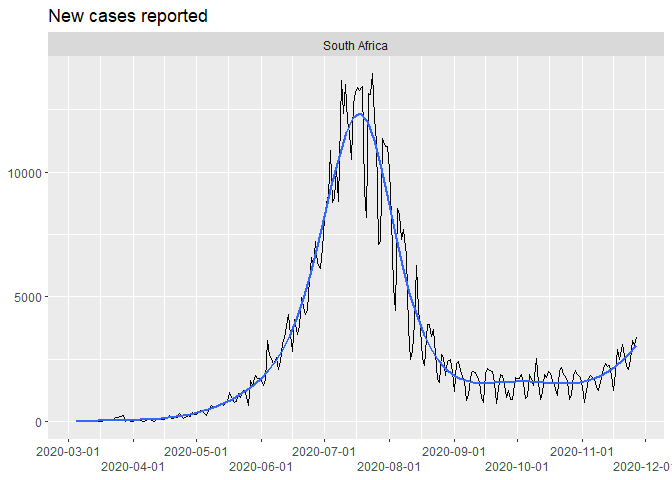
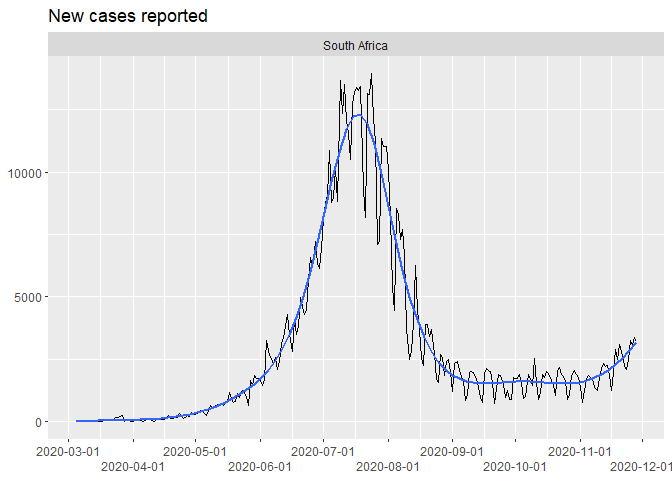
Refresh

diff --git a/README.md b/README.md
@@ -20,7 +20,7 @@ The data source is [a repository maintained by Johns Hopkins
 University](https://github.com/CSSEGISandData/COVID-19). The data is
 updated once per day.
 
-Last updated at 2020-11-28 07:46:59
+Last updated at 2020-11-29 18:03:47
 
 Total cases
 -----------
@@ -29,16 +29,16 @@ Total cases
     #> # Groups:   country [1]
     #>    country      date         lat  long  cases
     #>    <chr>        <date>     <dbl> <dbl>  <dbl>
-    #>  1 South Africa 2020-11-18 -30.6  22.9 757144
-    #>  2 South Africa 2020-11-19 -30.6  22.9 759658
-    #>  3 South Africa 2020-11-20 -30.6  22.9 762763
-    #>  4 South Africa 2020-11-21 -30.6  22.9 765409
-    #>  5 South Africa 2020-11-22 -30.6  22.9 767679
-    #>  6 South Africa 2020-11-23 -30.6  22.9 769759
-    #>  7 South Africa 2020-11-24 -30.6  22.9 772252
-    #>  8 South Africa 2020-11-25 -30.6  22.9 775502
-    #>  9 South Africa 2020-11-26 -30.6  22.9 778571
-    #> 10 South Africa 2020-11-27 -30.6  22.9 781941
+    #>  1 South Africa 2020-11-19 -30.6  22.9 759658
+    #>  2 South Africa 2020-11-20 -30.6  22.9 762763
+    #>  3 South Africa 2020-11-21 -30.6  22.9 765409
+    #>  4 South Africa 2020-11-22 -30.6  22.9 767679
+    #>  5 South Africa 2020-11-23 -30.6  22.9 769759
+    #>  6 South Africa 2020-11-24 -30.6  22.9 772252
+    #>  7 South Africa 2020-11-25 -30.6  22.9 775502
+    #>  8 South Africa 2020-11-26 -30.6  22.9 778571
+    #>  9 South Africa 2020-11-27 -30.6  22.9 781941
+    #> 10 South Africa 2020-11-28 -30.6  22.9 785139
 
 ### Linear scale
 
@@ -75,16 +75,16 @@ Total number of deaths
     #> # Groups:   country [1]
     #>    country      date       deaths
     #>    <chr>        <date>      <dbl>
-    #>  1 South Africa 2020-11-18  20556
-    #>  2 South Africa 2020-11-19  20671
-    #>  3 South Africa 2020-11-20  20759
-    #>  4 South Africa 2020-11-21  20845
-    #>  5 South Africa 2020-11-22  20903
-    #>  6 South Africa 2020-11-23  20968
-    #>  7 South Africa 2020-11-24  21083
-    #>  8 South Africa 2020-11-25  21201
-    #>  9 South Africa 2020-11-26  21289
-    #> 10 South Africa 2020-11-27  21378
+    #>  1 South Africa 2020-11-19  20671
+    #>  2 South Africa 2020-11-20  20759
+    #>  3 South Africa 2020-11-21  20845
+    #>  4 South Africa 2020-11-22  20903
+    #>  5 South Africa 2020-11-23  20968
+    #>  6 South Africa 2020-11-24  21083
+    #>  7 South Africa 2020-11-25  21201
+    #>  8 South Africa 2020-11-26  21289
+    #>  9 South Africa 2020-11-27  21378
+    #> 10 South Africa 2020-11-28  21439
 
 ### Linear scale
 
